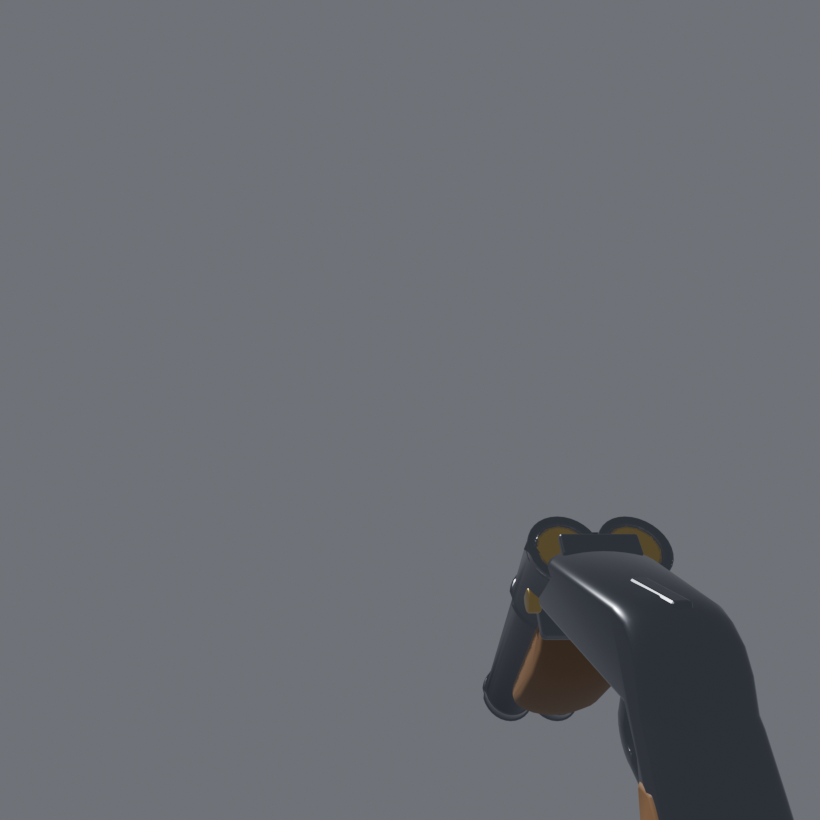
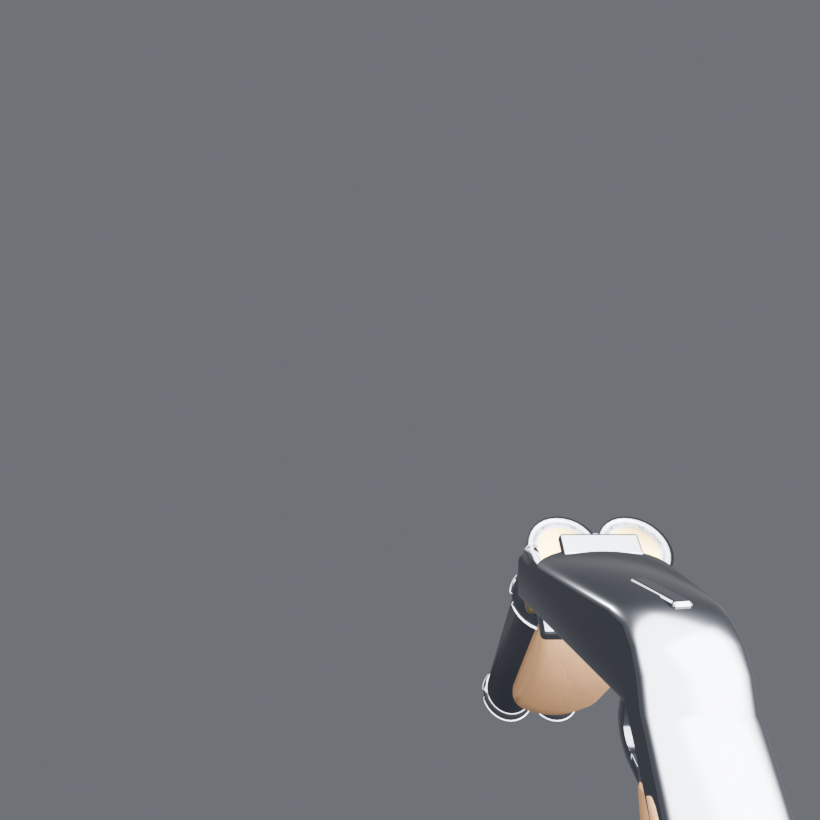
shorty: the after-renders, and the gate that finally checks eject location
Three-angle after-open45 render set (FPV, straight-on rear, three-quarter)
against the tracked before-open45.png: the domed knobs are gone, replaced
by a rimmed mouth, a seated brass shell head, and a visible extractor. The
raycast (`[shorty] OK`, no bore-not-hollow line) is re-confirmed as the
actual proof; the three-quarter render is the only angle of the three that
would look different if the chamber were still solid, and the report says
so per angle.

Headless in-game reload capture (docs/dev-notes/2026-09-03-shorty-breech/
ingame-reload/) hand-steps the reload at its real beats and confirms by eye:
top lever at full throw before the hinge opens, cases sliding out of tilted
bores and tumbling free, the extractor sitting visibly proud between two
genuinely dark, empty mouths mid-reload, and the fresh cases seating as the
action snaps shut.

Found while verifying: Task 7 Step 5b's gate -- the one thing that actually
checks WHERE cases come from, and the audit's whole reason for existing --
was never committed, only the runtime plumbing (breechWorld/lastEjectOrigin)
it depends on. Added the missing assertion to sdf-game-shorty-gate.mjs at
the eject beat (510 ms == RELOAD.ejectAtSec): 1.18 cm on the real build,
proven to FAIL at 16.8 cm against the old hardcoded eject constant.

TASKS.md rewritten to record the mechanism as done, the 1.05s -> 1.30s
retime, and the gap found and closed above.

Changed region(s): [[0.5793, 0.6098, 0.9756, 1.0]]

diff --git a/TASKS.md b/TASKS.md
@@ -20,30 +20,56 @@ Subtasks use `.N`: `A5.1`, `F1.gibs`.
 
 ## Current focus
 
-**NEXT ACTION: the shorty's breech mechanism.** Plan written and ready, 8
-tasks, not started —
+**SHORTY BREECH MECHANISM — DONE (2026-09-03), all 8 tasks** —
 [plan](docs/superpowers/plans/2026-09-03-shorty-breech-mechanism.md) ·
 [spec](docs/superpowers/specs/2026-09-03-shorty-breech-mechanism-design.md).
-Three defects, one of them not in the owner's report:
-* `chamber{i}` is built with `cyl()`, which caps both ends — breaking the
-  action open shows two solid domed knobs where the mouths should be
-  ([before-open45.png](docs/dev-notes/2026-09-03-shorty-breech/before-open45.png)).
-* Every piece of breech-face detail (`mouth{i}`, `extractor`) sits at
-  y ≈ −0.066 — the chamber's FRONT, 35 mm from the actual breech face at
-  y = −0.031, buried in the frame beside the hinge pin.
-* The eject origin is a stale constant whose x predates `1e99b54` centring the
-  gun, and which cannot follow the barrels through their swing.
-Fix comes off `docs/dev-notes/refs/sawnoffs_animated.glb` (DJMaesen, CC-BY-4.0,
-credited in ATTRIBUTIONS.md), decoded channel by channel: its slugs are
-CHILDREN of the swinging barrel node so they inherit the break rotation, and
-its eject is TWO-STAGE — an axial slide out of the bore, then a free tumble.
-Retimed to its tempo at the owner's call (45° over 0.33 s, shut in 0.14, 1.30 s
-total). NOT taken from it: dimensions. Owner: "we dont need to be completly
-realistic, its in a fantasy world anyways".
-**Before running it:** audit the plan's verification steps — it leans on
-"render it and look", which fails the same way Task 2's visual check did (it
-pushed the reticle left/right, both pure yaw, the one case the bug did not show
-in). Make each step state what would have to break for it to fail.
+Fixed three defects, one of them not in the owner's report ("the tube is
+solid, not hollow... the ejected shells dont come out of the right
+location"):
+* `chamber{i}` was built with `cyl()`, which caps both ends — breaking the
+  action open showed two solid domed knobs where the mouths should be.
+  Rebuilt with `tube()` + a `taper_tube()` forcing cone; a raycast down each
+  bore is now part of the model gate (`[shorty] OK`), proven to FAIL when the
+  chamber is reverted to `cyl()`.
+* Breech-face detail (`mouth{i}`, `extractor`) sat at the chamber's FRONT,
+  35 mm from the real breech face — moved to y = −0.031, with a widened
+  standing breech (Task 3) that now carries its own barrels instead of
+  overhanging the frame.
+* The eject origin was a stale hardcoded constant that could not follow the
+  barrels through their swing. Cases now extract along their own local bore
+  axis as children of `Barrels`, then hand off to a free tumble spawned at
+  the LIVE `Breech_L/R` world position, read every frame via `breechInRig()`
+  (exposed for gating as `__sdfGame.breechWorld()` / `.lastEjectOrigin`).
+  **Task 7 Step 5b's gate was landed late, during Task 8:** the runtime
+  plumbing shipped in `a5c7f7e` but the assertion the audit actually asked
+  for — sample `lastEjectOrigin` at the eject beat, assert within 5 cm of
+  `breechWorld()` — had no driver anywhere in the repo (`git log` / grep for
+  `breechWorld` outside `game-main.ts` came up empty). Added to
+  `sdf-game-shorty-gate.mjs` at the 510 ms beat (== `RELOAD.ejectAtSec`, the
+  first frame the tumble owns the position, before it drifts downrange):
+  passes at 1.18 cm on the real build, proven to FAIL at 16.8 cm when `breech`
+  is hardcoded back to the old `(0.105, -0.075, -0.360)` constant.
+Reload retimed to the reference's tempo (45° over 0.33 s, shut in 0.14 s,
+1.30 s total — up from 1.05 s); `scripts/sdf-game-shorty-gate.mjs` derives its
+wait from `__sdfGame.reloadTotalSec` rather than a hardcoded frame count, and
+its reload strip now samples the actual beats (present/break/eject/load/snap)
+instead of a stale timing left over from the shorter reload.
+**Verification (Task 8):** three render angles, not one — FPV, a straight-on
+rear view, and a three-quarter — in
+[docs/dev-notes/2026-09-03-shorty-breech/](docs/dev-notes/2026-09-03-shorty-breech/)
+(`before-open45.png` vs `after-open45{,-rear,-threequarter}.png`). The
+three-quarter is the angle that actually proves hollowness by eye (a dark bore
+reads all the way from muzzle to breech); the straight-on rear view, looking
+near the bore axis, would look the same whether the chamber were solid or
+hollow, so it's read for FRAME FIT (mouths seated within the widened receiver,
+not overhanging it) rather than hollowness — the raycast gate is what proves
+hollowness, per the render-vs-raycast audit below. In-game reload captured
+headlessly (`__sdfGame.step`/`setLoopRunning(false)`, `ingame-reload/`)
+confirms by eye: the top lever is at full throw while the hinge is still shut
+(180 ms vs 350 ms), cases tumble up and away after sliding out the tilted
+bores, the extractor sits visibly proud between two genuinely dark, empty
+mouths mid-reload (650/900 ms), and the fresh cases seat and the action snaps
+shut (1110/1180 ms).
 
 **FPV WEAPON OVERHAUL — GOBLIN SAWED-OFF — MERGED (2026-09-03).**
 `sdf-game.html`'s view-model is a procedural break-action sawed-off double
